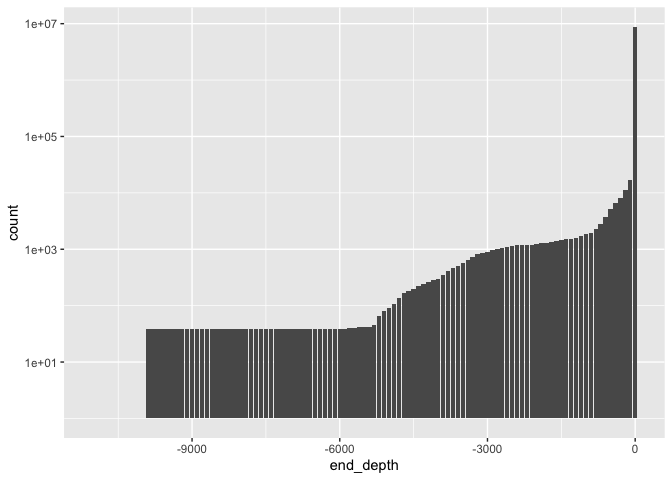
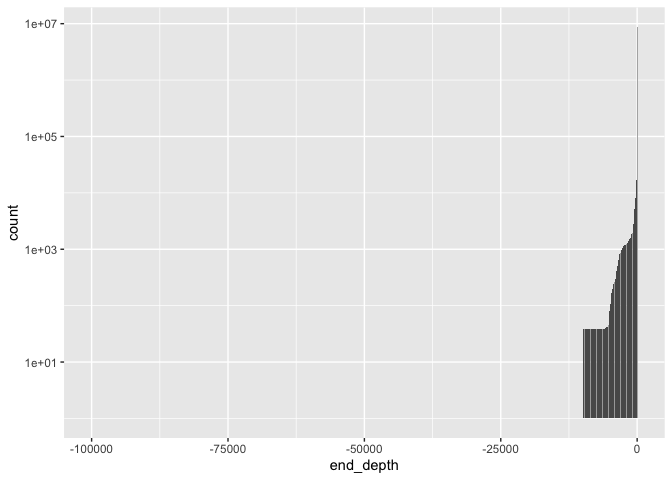
update depth with minimum depth of obis-qc

diff --git a/src/depth.md b/src/depth.md
@@ -23,7 +23,7 @@ There are many records with negative depth. How many are they?
 ``` r
 # variables
 end_depth = 0  # in meters
-max_end_depth = -11000
+max_end_depth = -100000  # minimum depth in current obis-qc checks
 
 # initialize tibble with end_depth at 100m interval
 occ_df <- tibble(end_depth = seq(0, max_end_depth, -100))
@@ -46,7 +46,7 @@ occ_df <- occ_df %>%
 occ_df
 ```
 
-    ## # A tibble: 111 × 2
+    ## # A tibble: 1,001 × 2
     ## # Rowwise: 
     ##    end_depth   count
     ##        <dbl>   <int>
@@ -60,7 +60,7 @@ occ_df
     ##  8      -700    2803
     ##  9      -800    2321
     ## 10      -900    1978
-    ## # … with 101 more rows
+    ## # … with 991 more rows
 
 ``` r
 # plot them into bar chart
